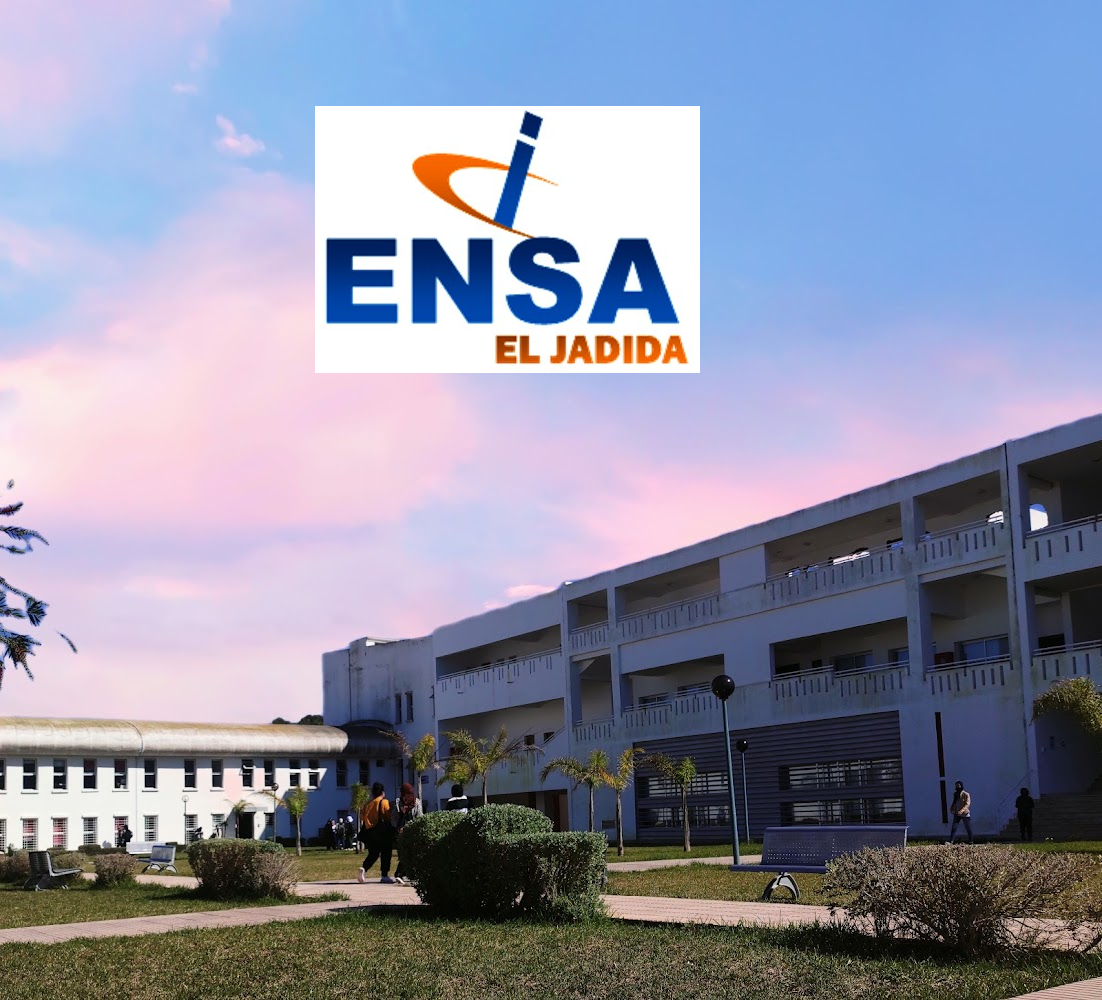
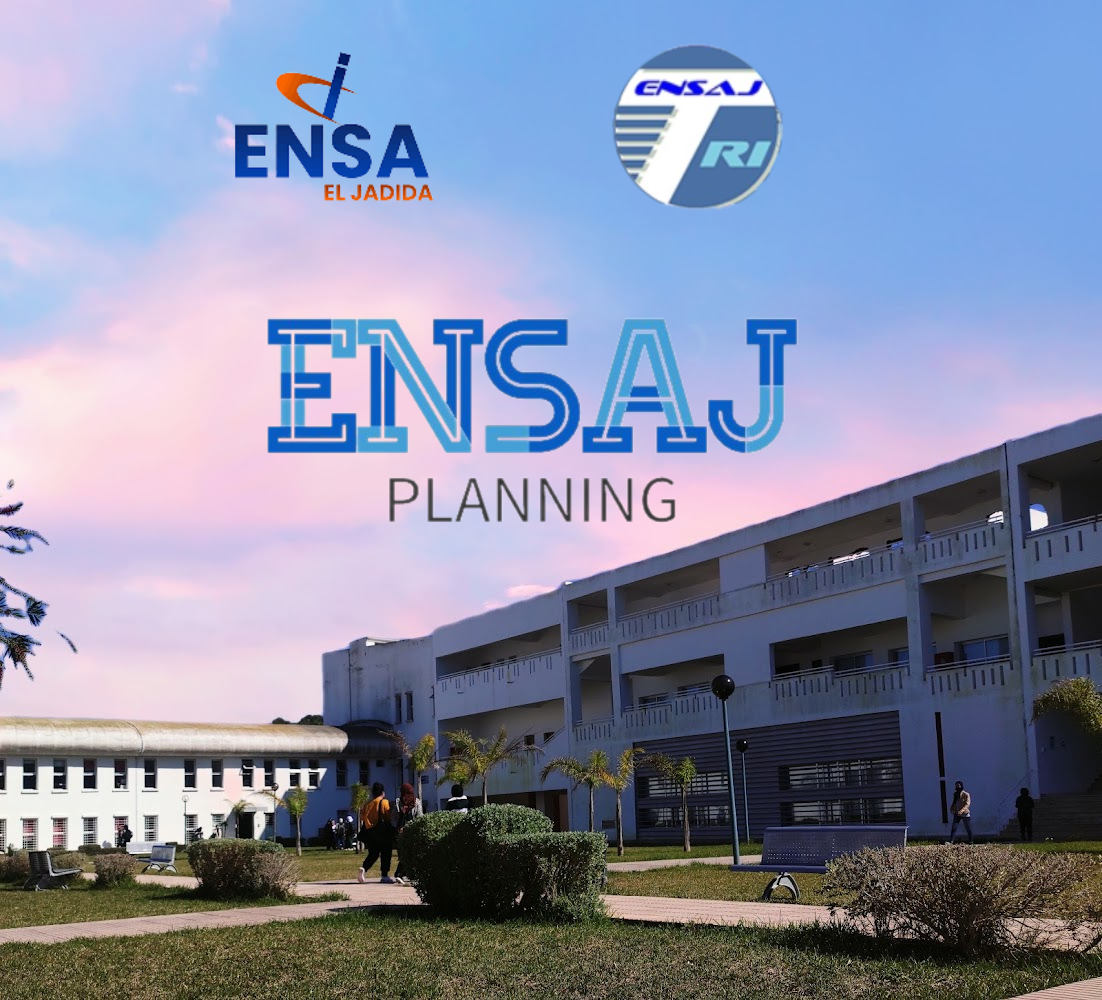
Oussama amelioration

Changed region(s): [[0.216, 0.031, 0.7405, 0.527]]

diff --git a/src/app/components/index-page/index-page.component.html b/src/app/components/index-page/index-page.component.html
@@ -1,16 +1,17 @@
 <body>
   <!-- ======= Header ======= -->
-  <div class="header">
-    <div class="header-left">
+  <div class="header" style="background-color: #E4F1FF;">
+    <div class="header-left" style="background-color: #E4F1FF;">
       <a routerLink="/home">
         <img src="/assets/img/logo.png" width="70%" alt="Logo" />
       </a>
     </div>
     <ul class="nav user-menu">
       <li class="nav-item me-2 m-2">
-        <button (click)="handleConnected()" class="btn btn-primary">
-          Se connecter
+        <button (click)="handleConnected()" class="btn btn-custom">
+          <i class="fas fa-sign-in-alt"></i> Login
         </button>
+
       </li>
     </ul>
   </div>
@@ -44,10 +45,11 @@
       <div class="container">
         <div class="row">
           <div class="col-lg-6 d-flex flex-column justify-content-center">
-            <h1 data-aos="fade-up">
-              ENSAJ PLANING.
-            </h1>
+            <img src="/assets/img/logo.png" width="90%" alt="Logo" />
+
+
           </div>
+
         </div>
       </div>
     </section>

diff --git a/src/app/components/index-page/index-page.component.css b/src/app/components/index-page/index-page.component.css
@@ -690,3 +690,20 @@ body {
 .fa-calendar {
     color: #0e4d85;
 }
+
+.btn-custom {
+  background-color: #3498db; /* Blue background color */
+  color: #fff; /* White text color */
+  font-size: 18px;
+  padding: 12px 24px; /* Adjust padding as needed */
+  border: none; /* Remove border */
+  border-radius: 5px; /* Add rounded corners */
+  cursor: pointer; /* Change cursor on hover */
+  transition: background-color 0.3s ease, color 0.3s ease; /* Add smooth transition */
+
+  /* Hover effect */
+  &:hover {
+    background-color: #2980b9; /* Darker blue on hover */
+  }
+}
+

diff --git a/src/app/components/widgets/login/login.component.html b/src/app/components/widgets/login/login.component.html
@@ -7,10 +7,6 @@
         </div>
         <div class="login-right">
           <div class="login-right-wrap">
-            <h1>Welcome</h1>
-            <p class="account-subtitle">
-              Access your account to check the schedules.
-            </p>
             <h2>Login</h2>
 
             <form [formGroup]="formGroup" (ngSubmit)="login()">
